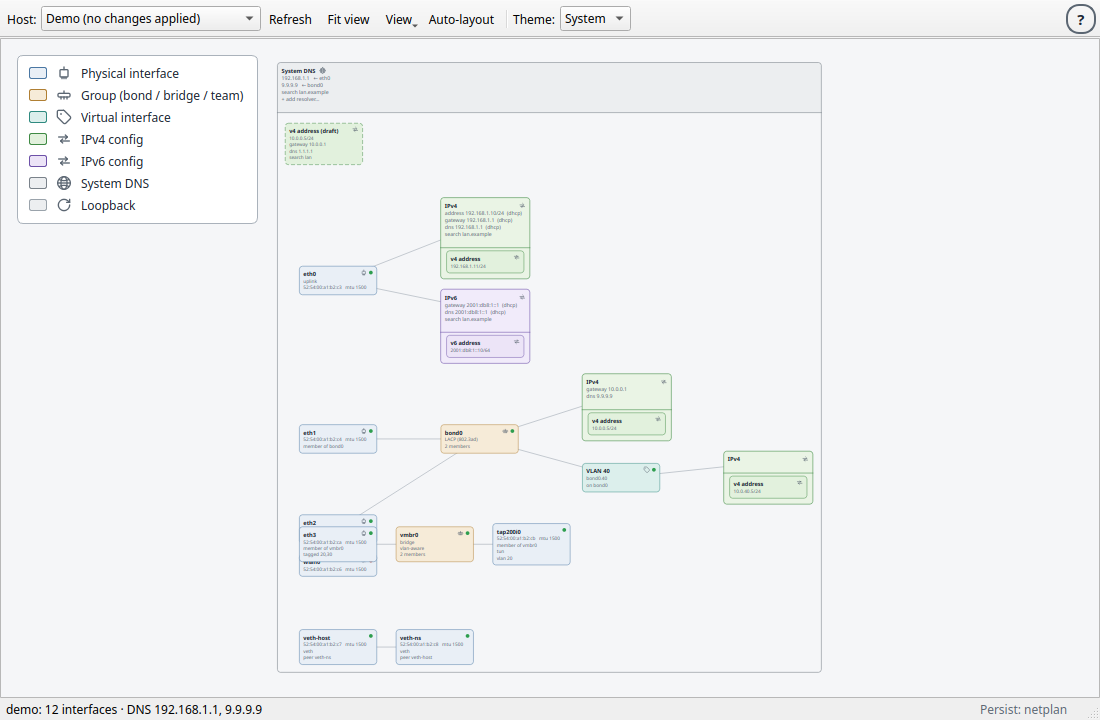
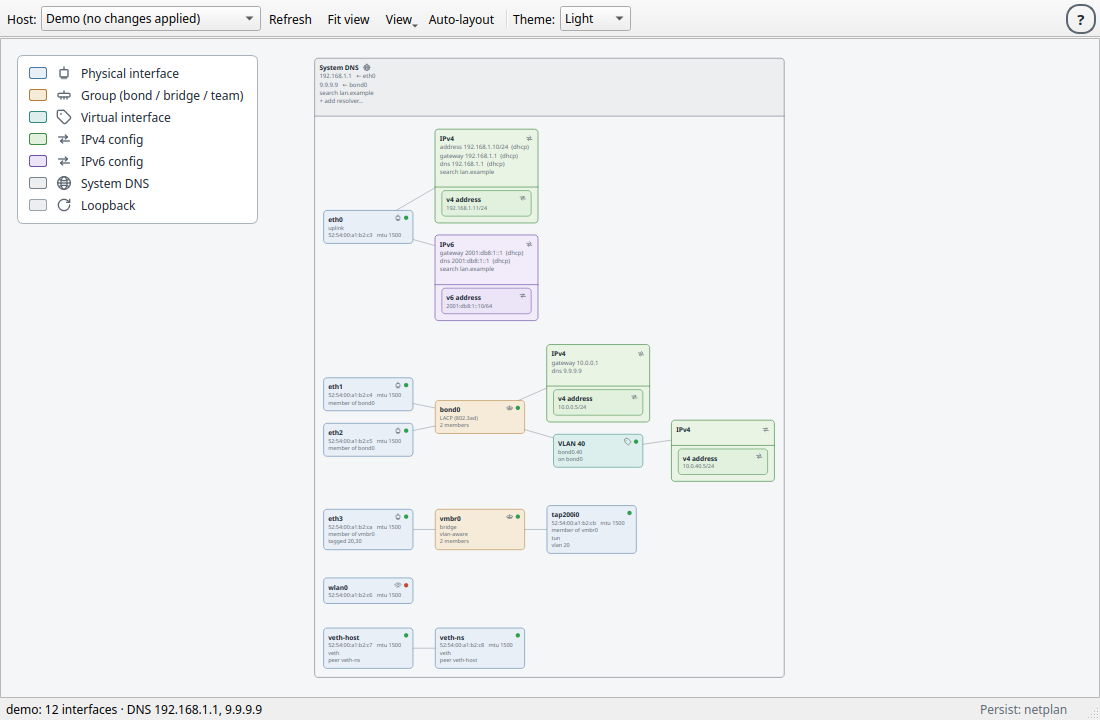
fix(docs): render README screenshots from an isolated store
The screenshots picked up the developer's saved box positions and
leftover draft boxes from ~/.local/share/netgrip, which left eth2/eth3
overlapping. Redirect XDG_DATA_HOME to a throwaway dir so grabs always
show the canonical auto-layout, and regenerate both shots.

diff --git a/scripts/grab_screenshots.py b/scripts/grab_screenshots.py
@@ -5,12 +5,23 @@ Uses ``QWidget.grab()`` so the window is painted offscreen — no compositor or
 visible display needed beyond a Qt platform plugin. Run from the repo root:
 
     .venv/bin/python scripts/grab_screenshots.py
+
+The store is redirected to a throwaway directory (``XDG_DATA_HOME``) so the
+README always shows the canonical auto-layout — never the developer's own
+saved box positions or leftover draft boxes from ``~/.local/share/netgrip``.
 """
 
 from __future__ import annotations
 
+import os
 import pathlib
 import sys
+import tempfile
+
+# Isolate the per-host store before netgrip imports read it, so remembered
+# positions / drafts can't leak into the screenshots. core.store reads
+# XDG_DATA_HOME on every access, so setting it here is enough.
+os.environ["XDG_DATA_HOME"] = tempfile.mkdtemp(prefix="netgrip-shots-")
 
 from PySide6.QtCore import QSettings
 from PySide6.QtWidgets import QApplication